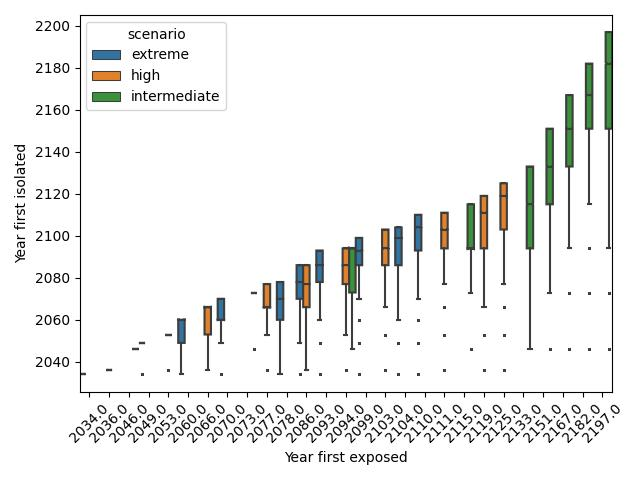
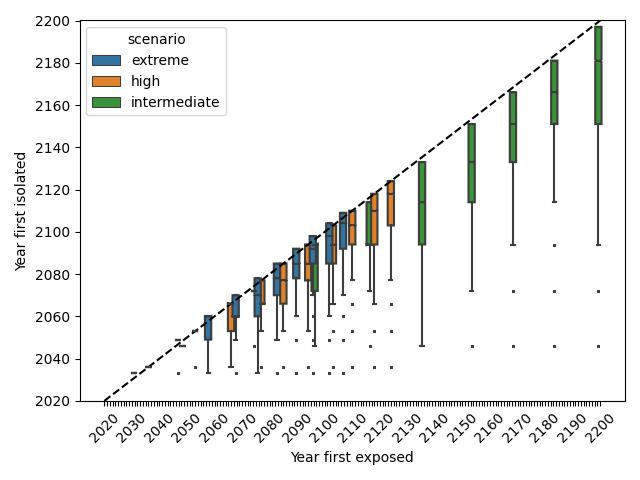
box plot figure on correct axis and spacing

diff --git a/src/plot_first_affected.py b/src/plot_first_affected.py
@@ -151,18 +151,20 @@ built_old_df = (time_effected.append(time_effected)).append(time_effected)
 df = pd.concat([built_old_df, new_df], axis=1)
 df = df.dropna()
 df = df.astype({'year_isolated':int, 'year_exposed':int})
+df = df.append(pd.DataFrame({'year_exposed':list(range(2020,2201))}))
+x_labels = [2020, None, None, None, None, None, None, None, None, None, 2030, None, None, None, None, None, None, None, None, None, 2040, None, None, None, None, None, None, None, None, None, 2050, None, None, None, None, None, None, None, None, None, 2060, None, None, None, None, None, None, None, None, None, 2070, None, None, None, None, None, None, None, None, None, 2080, None, None, None, None, None, None, None, None, None, 2090, None, None, None, None, None, None, None, None, None, 2100, None, None, None, None, None, None, None, None, None, 2110, None, None, None, None, None, None, None, None, None, 2120, None, None, None, None, None, None, None, None, None, 2130, None, None, None, None, None, None, None, None, None, 2140, None, None, None, None, None, None, None, None, None, 2150, None, None, None, None, None, None, None, None, None, 2160, None, None, None, None, None, None, None, None, None, 2170, None, None, None, None, None, None, None, None, None, 2180, None, None, None, None, None, None, None, None, None, 2190, None, None, None, None, None, None, None, None, None, 2200]
 
 # box plots on one graph
 fig, ax = plt.subplots()
 flierprops = dict(marker='.', markerfacecolor='grey', markersize=1)
-ax = sns.boxplot(x="year_exposed", y="year_isolated", data=df, hue="scenario", notch=True, width=1, flierprops=flierprops)
-# ax = sns.boxplot(x="inter_year_x", y="inter_year_y", data=time_effected, color="green", notch=True, width=0.5)
-# ax = sns.boxplot(x="high_year_x", y="high_year_y", data=time_effected, color="orange", notch=True, width=0.5)
-# ax = sns.boxplot(x="extr_year_x", y="extr_year_y", data=time_effected, color="red", notch=True, width=0.5)
-# x = np.linspace(2020,2200,100) 
-# plt.plot(x,x,'k--')
-plt.xticks(ticks=list(range(2020,2201)))
+ax = sns.boxplot(x="year_exposed", y="year_isolated", data=df, hue="scenario", notch=True, width=7, flierprops=flierprops)
+x = list(range(0,181))
+y = list(range(2020,2201))
+plt.plot(x,y,'k--')
+xticks = ax.get_xticks()
+plt.xticks(rotation=45, ticks=list(range(0,181)), labels=x_labels)
 plt.xlabel('Year first exposed')
 plt.ylabel('Year first isolated')
+plt.ylim(bottom=2020, top=2200)
 plt.tight_layout()
-plt.savefig('src/figs/test.jpg')
+plt.savefig('src/figs/box_plot_time.jpg')
